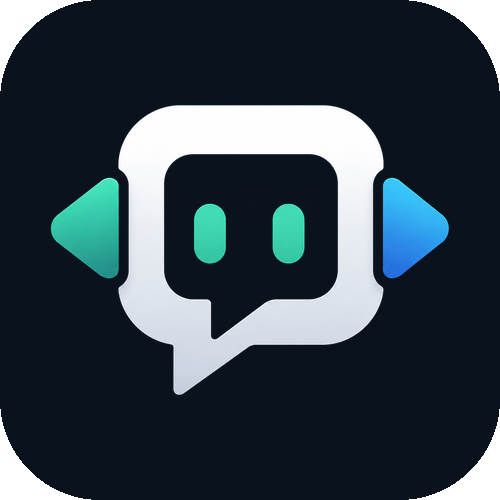
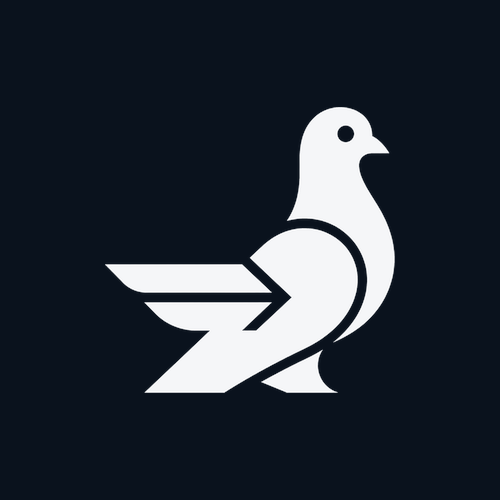
brand: regenerate the full asset kit with the messenger-pigeon mark
Follow-up to the logo adoption: every brand asset now carries the pigeon instead
of the old chat-bubble, generated from the approved raster via the same Pillow
pipeline (extract → recolor to navy #0A121D / off-white → crop/pad; wordmark set
in SF Pro).

Regenerated: GitHub avatar (500) + social preview (1280×640) + readme icon (256);
transparent marks (64/128/256/512/1024); bird+wordmark lockups (256/512/1024);
the source master; the web favicon/app-icon set + og/x social cards; and the
top-level docs/assets marks + lockup. USAGE.md's README snippet updated to the
theme-adaptive <picture>.

diff --git a/docs/assets/brand/USAGE.md b/docs/assets/brand/USAGE.md
@@ -9,14 +9,19 @@
 Recommended README header:
 
 ```html
-<p align="center">
-  <img src="./assets/askrelay-mark-256.png" alt="askrelay" width="128">
-</p>
-<h1 align="center">askrelay</h1>
-<p align="center"><strong>Your AI can ask my AI.</strong></p>
+<div align="center">
+  <picture>
+    <source media="(prefers-color-scheme: dark)" srcset="docs/assets/askrelay-mark-dark.png" />
+    <img src="docs/assets/askrelay-mark.png" alt="askrelay" width="120" />
+  </picture>
+  <h1>askrelay</h1>
+  <p><strong>Your AI can ask my AI.</strong></p>
+</div>
 ```
 
-Copy `readme/askrelay-mark-256.png` to `assets/askrelay-mark-256.png`, or adjust the path.
+The `<picture>` swaps the navy mark (light theme) for the white mark
+(`askrelay-mark-dark.png`) on GitHub's dark theme — the transparent pigeon reads
+on both. The mark is the messenger pigeon whose wing doubles as a forward arrow.
 
 ## Website `<head>`
 
